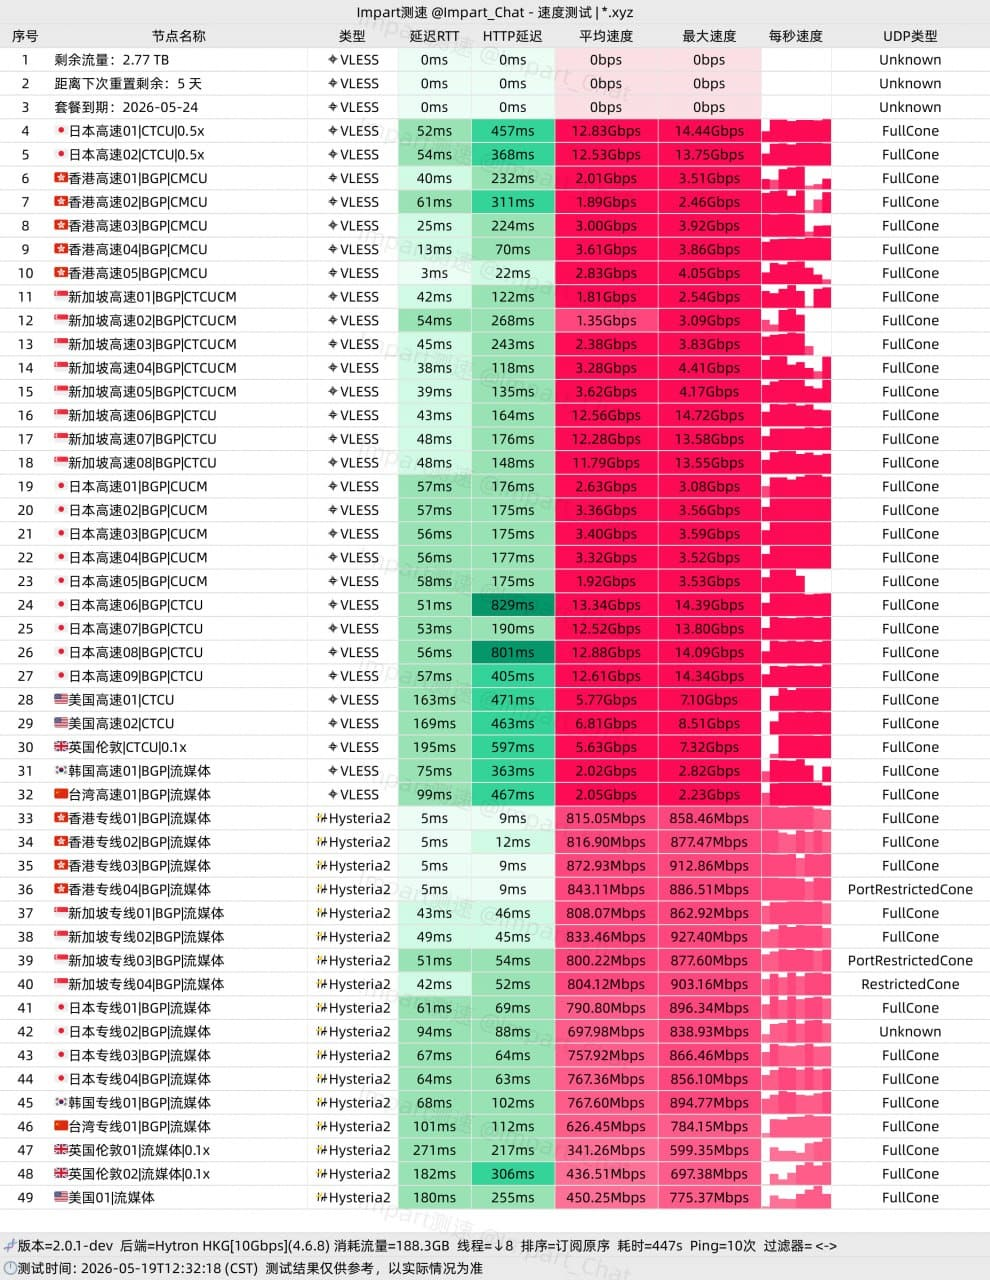
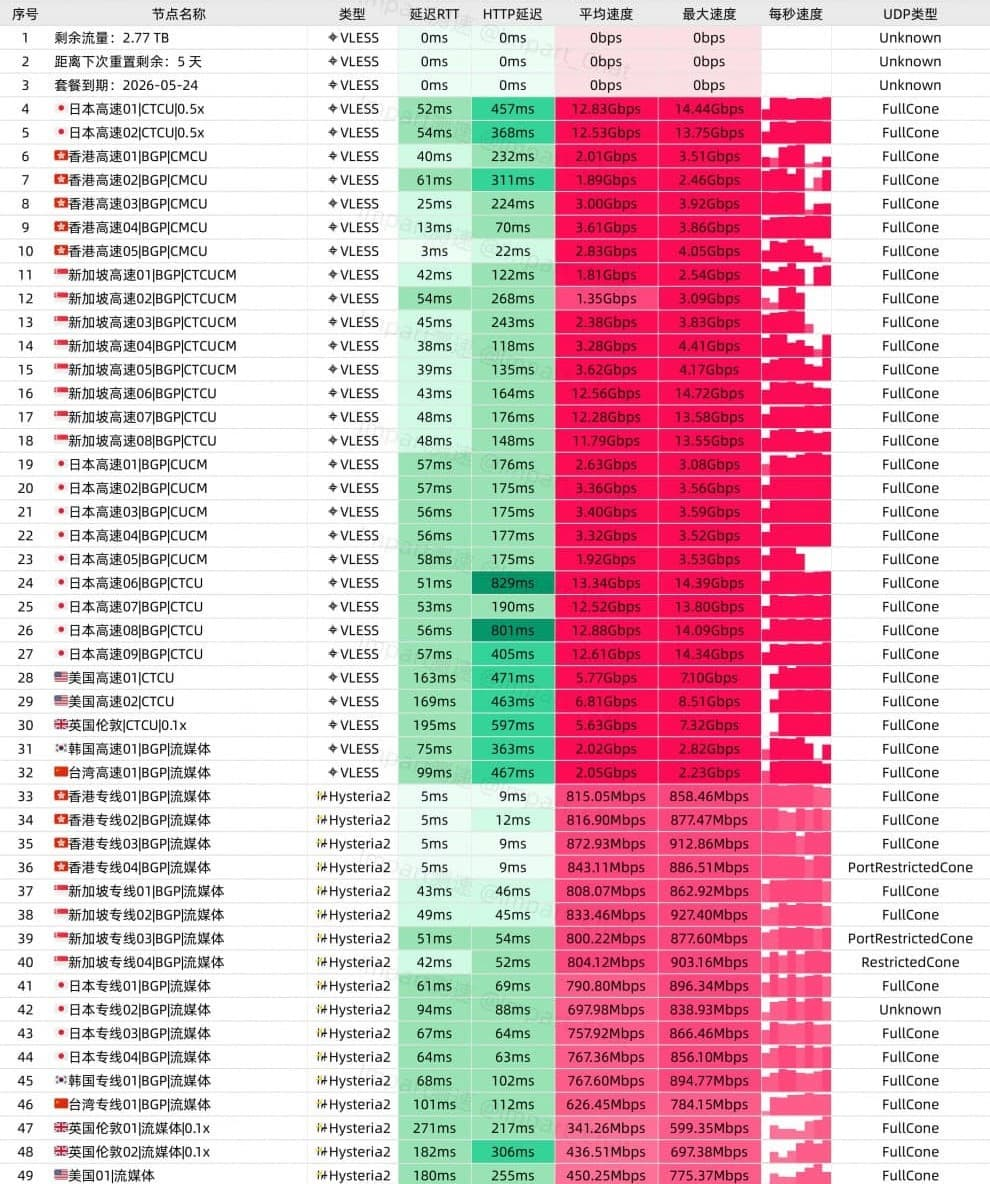
update

diff --git a/README.md b/README.md
@@ -28,21 +28,16 @@
 
 | 序号 | 机场名（点击跳转详情） | 官网 | 最低价套餐 |
 | -------- | -------- | -------- | -------- |
-| 1    | [悦通](#悦通) | [官网](https://sink.cheapairports.dpdns.org/648txr) | 49.9元/年,200G/月(平均4.15元/月),送Emby |
+| 1    | [悦通](#悦通) | [官网](https://sink.cheapairports.dpdns.org/648txr) | 49.9元/年,200G/月(平均4.15元/月),12.9元/月 1000g,送Emby |
 | 2    | [糯米](#糯米) | [官网](https://sink.cheapairports.dpdns.org/233sxx) | 12元/年,100G/月(平均1元/月),含家宽,商宽,GIA等专线|
 | 3    | [飞狗](#飞狗) | [官网](https://sink.cheapairports.dpdns.org/krj4u9) | 6元/季 100G/月(平均2元/月) |
-| 4    | [雪山机场](#雪山机场) | [官网](https://sink.cheapairports.dpdns.org/m82fux) | 39.9元/年,200G/月(平均3.3元/月),送Emby,含家宽节点 |
+| 4    | [雪山机场](#雪山机场) | [官网](https://sink.cheapairports.dpdns.org/m82fux) | 39.9元/年 200G/月(平均3.3元/月),9.9元/月 500G,送Emby,含家宽 |
 | 5    | [渔云](#渔云) | [官网](https://sink.cheapairports.dpdns.org/7rkg4k) | 60元/年 148G/月(平均5元/月),送Emby |
 | 6    | [星链机场](#星链机场) | [官网](https://sink.cheapairports.dpdns.org/3h2qg2) | 9.9元/年 300G/月(平均0.82元/月) |
 | 7    | [狗子云](#狗子云) | [官网](https://sink.cheapairports.dpdns.org/xhjy5m) | 3元/月 168G/月,含动态住宅IP |
 | 8    | [一分机场](#一分机场) | [官网](https://sink.cheapairports.dpdns.org/6ba6cf) | 2元/月 100G/月 |
 | 9    | [良心云](#良心云) | [官网](https://sink.cheapairports.dpdns.org/zxrc3d) | 2元/月 100G/月，4元/月 500G |
-| 10   | [ASA加速器](#asa加速器) | [官网](https://sink.cheapairports.dpdns.org/wck92u) | 5元/月 400G/月,30元/年2T(平均2.5元/月) |
-| 11   | [acyun](#acyun) | [官网](https://sink.cheapairports.dpdns.org/6rzq4p) | 5元/月 300G |
-| 12   | [SKY VPN](#sky-vpn) | [官网](https://sink.cheapairports.dpdns.org/5ad9zr) | 0.5元/月 30G/月，4元/月 200G |
-| 13   | [水牛云](#水牛云) | [官网](https://sink.cheapairports.dpdns.org/uv6ate) | 18.8元/年 100G/月(平均1.56元/月) |
-| 14   | [地鼠机场](#地鼠机场) | [官网](https://sink.cheapairports.dpdns.org/54k349) | 24元/年 200G/月(平均2元/月) |
-| 15   | [便宜机场](#便宜机场) | [官网](https://sink.cheapairports.dpdns.org/f2j64s) | 13元/年 100G/月(平均1.08元/月)每月发白嫖码 |
+| 10   | [便宜机场](#便宜机场) | [官网](https://sink.cheapairports.dpdns.org/f2j64s) | 13元/年 100G/月(平均1.08元/月)每月发白嫖码 |
 
 <hr>
 
@@ -52,21 +47,42 @@ Email: [email redacted]
 
 <hr>
 
+### Tag
+
+真正的老牌机场，第一梯队机场
+
+开业时间：2018年
+
+特点：
+* 250+ 条高速线路，覆盖全球 100+ 个国家和地区(含卫星网络)，家宽地区为：香港、澳门、台湾、新加坡、日本、马来西亚、越南、加拿大、美国，有原生节点
+* 落地：香港有G-Core商宽、HGC商宽、HKT家宽，日本有G-Core、Kirino、Kirin、Catixs、IDCF、Sonet索尼宽带、KDDI、软银家宽等，新加坡Kirino、M1家宽、Whiz家宽。美国10余个落地节点，不同商家，美国AT&T家宽。加拿大BCE家宽，澳门CTM家宽，马来西亚有TM家宽、Maxis商宽，新西兰Vodafone家宽
+* IEPL专线SS机场，稳定性高延迟低
+* 解锁Netfilx、Hulu、HBO、Disney+、Dazn等主流流媒体平台的区域限制
+* 解锁ChatGPT、Claude、 Gemini、Cursor等主流 AI 工具的区域限制
+* 老板肉身在香港，作为老牌机场价格偏高，但是质量和稳定性也非常好，适合追求极致体验的用户
+
+[TAG官网](https://sink.cheapairports.dpdns.org/tag)
+<details>
+<summary>套餐价格</summary>
+
+![套餐价格](./assists/tag/price.jpeg)
+
+</details>
+<details>
+<summary>测速</summary>
+
+![测速](./assists/tag/speed.jpg)
+
+</details>
+
+<hr>
+
 ### 悦通
 
 最低价套餐：49.9元/年,200G/月（平均4.15元/月）送Emby
 
 ```
-📢 悦通 520宠粉活动！
-
-520不止有心动，还有超值优惠 ❤️
-🎁 全场限时 7 折
-📅 活动时间：5月18日 — 5月23日
-🎟 优惠券码：YUE520
-下单时输入优惠券 YUE520，即可享受全场 7折优惠！
-⏰ 活动时间有限，错过再等一年～
-
-另外由于近期上游线路、服务器、带宽资源及基础运维成本持续上涨，为了保障悦通长期稳定运营，并继续维持节点质量、线路可用性与服务体验，将对现有套餐价格进行调整。
+由于近期上游线路、服务器、带宽资源及基础运维成本持续上涨，为了保障悦通长期稳定运营，并继续维持节点质量、线路可用性与服务体验，将对现有套餐价格进行调整。
 
 ⏰ 调整时间
 2026 年 6 月 1 日 00:00 起
@@ -85,7 +101,7 @@ Email: [email redacted]
 * 支持的地区包括：香港、台湾、🇯🇵 日本、🇰🇷 韩国、🇸🇬 新加坡、🇺🇸 美国、🇨🇦 加拿大、🇻🇳 越南、🇲🇾 马来西亚、🇹🇭 泰国、🇮🇳 印度、🇦🇪 阿联酋、🇪🇸 西班牙、🇸🇪 瑞典、🇳🇱 荷兰、🇩🇪 德国、🇬🇧 英国、🇷🇺 俄罗斯、🇹🇷 土耳其、🇳🇬 尼日利亚、🇧🇷 巴西、🇦🇺 澳大利亚、澳门、🇲🇳 蒙古、🇰🇭 柬埔寨、🇲🇲 缅甸、🇱🇦 老挝、🇵🇭 菲律宾、🇮🇩 印度尼西亚、🇵🇰 巴基斯坦、🇹🇱 东帝汶、🇦🇫 阿富汗、🇺🇦 乌克兰、🇻🇦 梵蒂冈、🇧🇲 百慕大、🇬🇱 格陵兰、🇦🇷 阿根廷、🇨🇺 古巴、🇪🇬 埃及、🇸🇴 索马里、🇫🇯 斐济、🇸🇧 所罗门群岛、🇬🇺 关岛、🇦🇶 南极洲…… 节点数量多、分布广，随时畅享全球高速网络！
 * 328元终身永久不限量99T高速流量
 * 520元终身永久不限流量，无限带宽，买断即享，彻底告别流量焦虑
-* tg群人数4800+
+* tg群人数5000+
 
 [悦通官网](https://sink.cheapairports.dpdns.org/648txr)
 <details>
@@ -138,7 +154,7 @@ Email: [email redacted]
 
 ### 雪山机场
 
-最低价套餐：39.9元/年 200G/月（平均3.3元/月）送Emby
+最低价套餐：39.9元/年 200G/月(平均3.3元/月), 9.9元/月 500G 送Emby
 
 特点：
 * 有家宽节点（香港，台湾，韩国等）
@@ -180,7 +196,13 @@ Email: [email redacted]
 <details>
 <summary>套餐价格</summary>
 
-![套餐价格](./assists/渔云/price.png)
+![套餐价格](./assists/渔云/price.jpg)
+
+</details>
+<details>
+<summary>测速</summary>
+
+![测速](./assists/渔云/speed.jpg)
 
 </details>
 
@@ -273,116 +295,12 @@ Email: [email redacted]
 ![测速](./assists/良心云/speed.jpg)
 
 </details>
-<hr>
-
-### ASA加速器
-
-最低价套餐：5元/月 400G/月,30元/年2T（平均2.5元/月）
-
-特点：
-* 流媒体解锁好
-* 30+节点可用
-
-[ASA加速器官网](https://sink.cheapairports.dpdns.org/wck92u)
-<details>
-<summary>套餐价格</summary>
-
-![套餐价格](./assists/ASA加速器/price.jpg)
-
-</details>
-
-<hr>
-
-### acyun
-开业时间：2023-03-10
-
-最低价套餐：5元/月 300G
-推荐购买长期订阅更加划算，季付优惠码：wCRKdpMi 年付优惠码：FGHSlLtK
-
-特点：
-* 冷门地区
-* 0倍率福利下载节点
-* 探针：https://jj.acyun.eu.org
-
-[acyun官网](https://sink.cheapairports.dpdns.org/6rzq4p)
-<details>
-<summary>套餐价格</summary>
-
-![套餐价格](./assists/acyun/price.jpg)
-
-</details>
-
-<hr>
-
-### SKY VPN
-开业时间：2021-10-05
-
-最低价套餐：0.5元/月 30G/月，4元/月 200G（每天签到零流量）
-
-特点：
-* 免流节点
-
-[SKY VPN官网](https://sink.cheapairports.dpdns.org/5ad9zr)
-<details>
-<summary>套餐价格</summary>
-
-![套餐价格](./assists/SKY-VPN/price.png)
-
-</details>
-
-<hr>
-
-### 水牛云
-开业时间：2024-08-19
-
-最低价套餐：18.8元/年 100G/月（平均1.56元/月）
-
-特点：
-* 直连机场
-* 不限在线设备
-* 可用线路50+条以上
-
-[水牛云官网](https://sink.cheapairports.dpdns.org/uv6ate)
-<details>
-<summary>套餐价格</summary>
-
-![套餐价格](./assists/水牛云/price.jpg)
-
-</details>
-
-<hr>
-
-### 地鼠机场
-开业时间：2024-08-19
-
-最低价套餐：24元/年 100G/月（平均2元/月）
-
-特点：
-* 无使用限制，你可以随意使用bt等工具
-* 无审计规则，我们不会限制你访问任何网站
-* 无日志记录，我们不会记录任何的节点日志
-* 每月一杯柠檬水的价格
-* 最高4gbps速率，节点均为G口
-
-[地鼠机场官网](https://sink.cheapairports.dpdns.org/54k349)
-<details>
-<summary>套餐价格</summary>
-
-![套餐价格](./assists/地鼠机场/price.jpg)
-
-</details>
-<details>
-<summary>测速</summary>
-
-![测速](./assists/地鼠机场/speed.png)
-
-</details>
 
 <hr>
 
 ### 便宜机场
 
-最低价套餐：13元/年 100G/月（平均1.08元/月）每月发白嫖码
+最低价套餐：13元/年 100G/月（平均1.08元/月）
 
 特点：
 * 关注频道每个月领取套餐，TG频道人数21000+